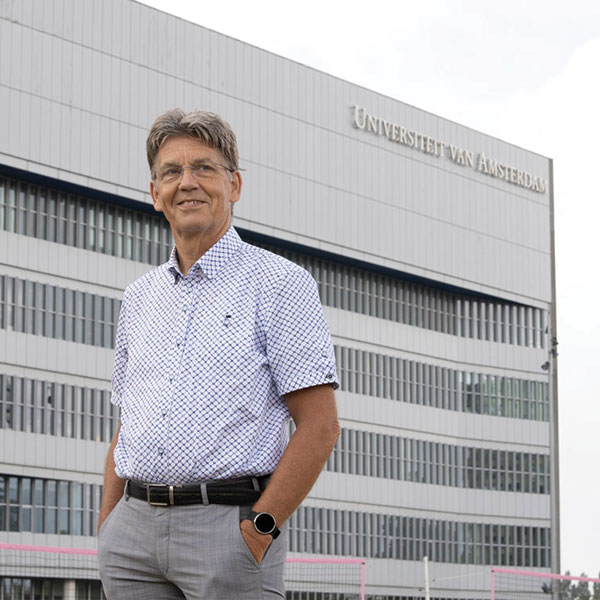
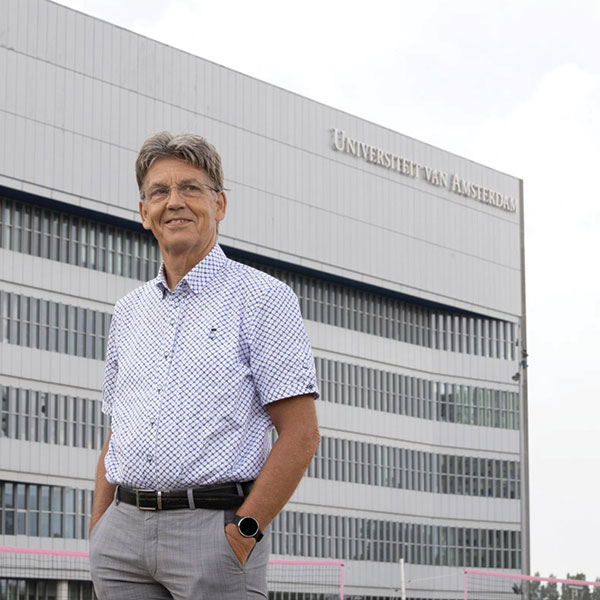
Update Pages “index”

diff --git a/src/pages/index.md b/src/pages/index.md
@@ -193,7 +193,7 @@ slideshow:
     image: /img/co2.jpg
     alt: Emissions
   image2:
-    image: /img/cyano.jpg
+    image: /img/slide2.jpg
     alt: Cyanobacteria
   image3:
     image: /img/slide3.jpg
